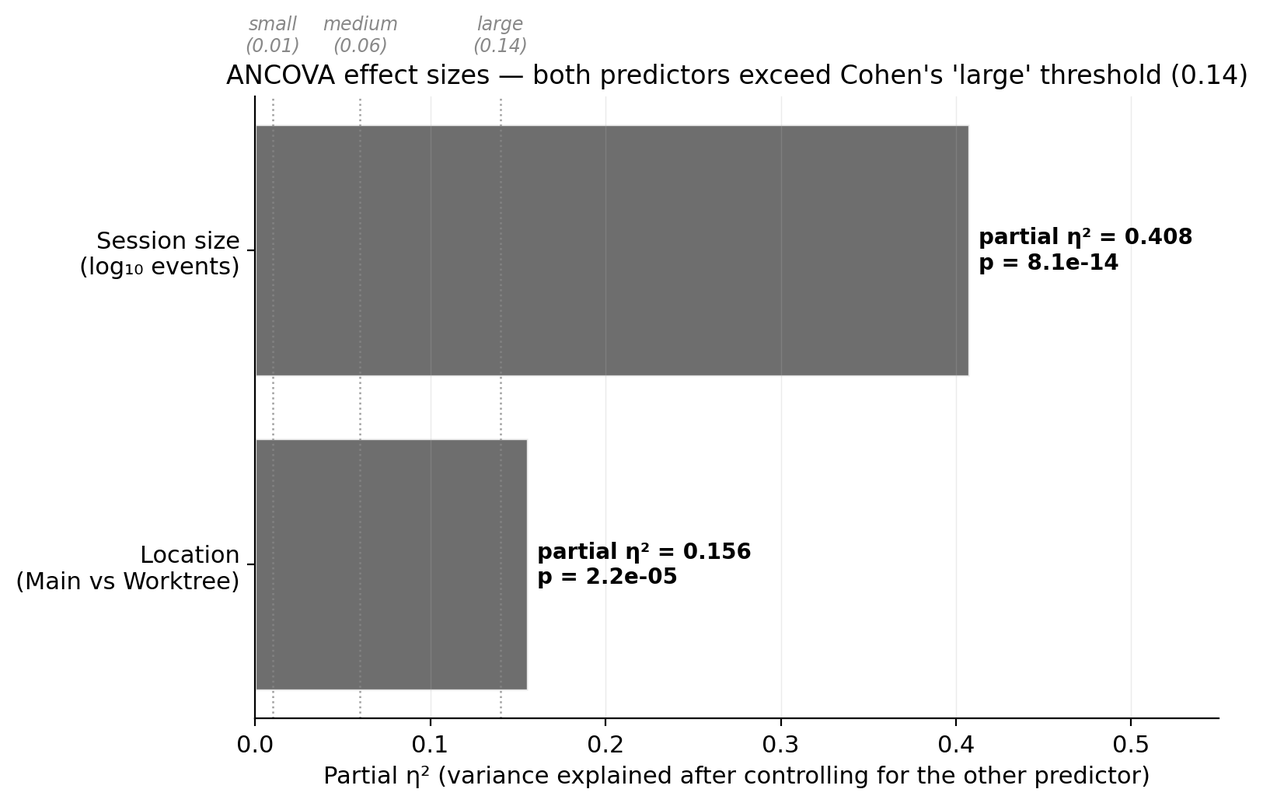
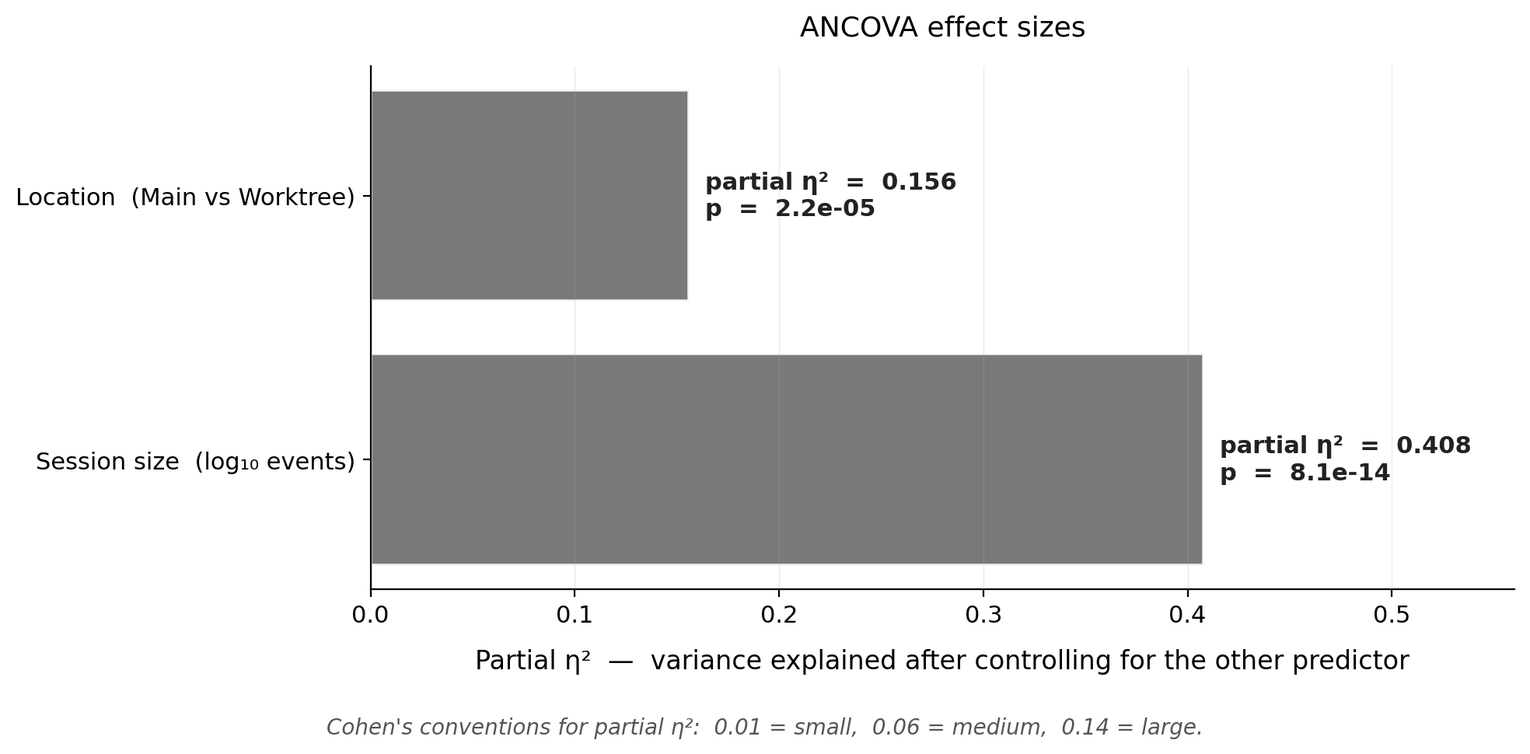
fix(blog): rework figures layout + restructure to scientific-article sections
Figures v2 — resolved layout/legibility issues flagged on v1:
- fig1 (ANCOVA): legend moved outside the plot area (no longer overlapping
  points), y-axis padded so points don't clip the frame, +39pp annotation
  moved to an empty quadrant.
- fig2 (bucket means): n labels placed ABOVE bars (with clearance above
  error bars), 50% reference annotation relocated to the empty upper-left
  where no bars reach, wider bar spacing.
- fig3 (xlong dot plot): extra vertical padding, cleaner mean labels.
- fig4 (effect sizes): removed cluttered threshold reference lines +
  labels that were stacking under the x-axis; replaced with a single
  italic caption at the bottom. Larger annotation text.

Article restructure:
- Scientific-article sectioning: TL;DR / Introduction / Methodology /
  Results / Discussion / Limitations / Summary (replaces the previous
  ad-hoc section names).
- Two monolithic pre-formatted code-block tables (descriptive stats +
  ANCOVA results) converted to proper markdown tables with pipes.
- Content substantively unchanged — same claims, same numbers, same
  mechanism, same fix. Rearranged only.

diff --git a/src/pages/content/blog/claude-code-cache-ttl-worktree-trap.md b/src/pages/content/blog/claude-code-cache-ttl-worktree-trap.md
@@ -10,148 +10,151 @@ og_image: "/images/blog/claude-code-cache-ttl-worktree-trap/fig1_ancova_parallel
 draft: true
 ---
 
-Parsed 30 days of my Claude Code JSONL transcripts. Two factors independently drive prompt-cache TTL drift: how long your session runs, and whether it runs inside a git worktree. Worktrees add roughly 39 percentage points of 5-minute-TTL cache share at any session size. Together these two effects explain half the variance across 110 sessions. Here's the data, the formal test, a short primer on Analysis of Covariance because it somehow didn't come up in my own stats training despite the PhD, and the single-layer fix that makes the whole thing go away.
+## TL;DR
 
-## What I measured
+Parsed 30 days of my Claude Code JSONL transcripts. Two factors independently drive per-session 5-minute-TTL cache share, and controlling for one does not kill the other. Session length matters (F = 73.65, partial η² = 0.41). Git-worktree location matters on top of that (F = 19.75, p = 2.2×10⁻⁵, partial η² = 0.156), shifting the whole drift curve up by about 39 percentage points regardless of how long the session runs. Together the two effects explain roughly half the variance across 110 sessions. Mechanism is `git rev-parse --show-toplevel` returning the worktree dir, so Claude Code treats it as its own project root and never reads the parent repo's `.claude/settings.local.json`. Fix is a user-level `~/.claude/settings.json` hook chain, which is the only config layer loaded regardless of which project root the session resolves to.
 
-Every Claude Code session writes a transcript to `~/.claude/projects/<slug>/<session-id>.jsonl`. Each assistant message's `usage` block contains a `cache_creation` field with two counters: `ephemeral_5m_input_tokens` (writes tagged with the 5-minute TTL) and `ephemeral_1h_input_tokens` (writes tagged with the 1-hour TTL). The 1-hour bucket costs 2× a 5-minute write, but at the 14× read-to-write ratio I see on interactive sessions, it amortizes to roughly 9× cheaper per sustained workload. Every percentage point of cache mass in the 5-minute bucket instead of the 1-hour one is a proportional chunk of that discount that's gone.
+## Introduction
 
-I aggregated every ScoutQL session over the 30-day window that had non-zero cache creation. 110 sessions total — 101 in the main checkout of the repo, 9 inside git worktrees of the same repo. For each session I recorded three things: how many events were in the session (proxy for length, from 4 to ~7000), whether the session was inside a worktree (nominal, Main vs Worktree), and the per-session 5-minute-TTL share as `e5 / (e5 + e1)` ∈ [0, 1].
+Claude Code writes every assistant message's token usage to a local JSONL file under `~/.claude/projects/<slug>/<session>.jsonl`. Inside each `usage` block there are two counters I care about: `ephemeral_5m_input_tokens` and `ephemeral_1h_input_tokens` — these are the two prompt-cache TTL buckets Anthropic charges differently for. The 1-hour bucket costs twice as much per write but pays the author back across any cache read inside the hour. On my real interactive workload I see about 14 cache reads per write, so the 1-hour bucket works out to roughly 9× cheaper per sustained session. Every percentage point of cache mass that lands in the 5-minute bucket instead of the 1-hour one is a proportional chunk of that discount gone.
 
-## The question I was actually asking
+So when a cost audit showed one of my projects sitting at 52 % 5-minute share while another was at 33 %, the obvious next question was "what's different about the higher one?". The obvious next answer — "that project has longer sessions" — turned out to be only half true. Both factors were real. The aggregate number was hiding the fact that session length and git-worktree location are independent drivers of cache-TTL drift. Untangling them required reaching for a statistical test I'd never used in my biology PhD. This post is the whole debugging loop written up as a mini scientific article, because the data deserved more than hand-waving and a table.
 
-The obvious hypothesis is that worktree sessions drift to 5-minute TTL because worktrees house longer sessions than main-checkout work does, and long sessions drift regardless of location. If that's the whole story, the worktree effect is a confound of session length and should disappear once you control for it. If it isn't the whole story — if worktrees drift more than equivalently-long main-checkout sessions — then worktrees are doing something independently bad, and that changes the fix.
+## Methodology
 
-Formally:
+### Data collection
 
-**H₀ (null hypothesis)**: After controlling for session length, there is no difference in 5-minute-TTL cache share between Main and Worktree sessions. The two regression lines of `share_5m ~ log₁₀(events)` have the same intercept.
+I aggregated every ScoutQL session over the 30-day window ending 2026-04-22 that had non-zero cache creation. 110 sessions total — 101 inside the main checkout of the repo, 9 inside git worktrees of the same repo. For each session I recorded three things:
 
-**H₁ (alternative)**: The intercepts differ. Worktree sessions have a non-zero additive offset in 5-minute share that exists at every session length.
+- **events** — number of assistant messages in the session, proxy for length (range 4 to ~7 000)
+- **location** — whether the session ran inside a git worktree (nominal, 2-level: Main / Worktree)
+- **share_5m** — the per-session 5-minute-TTL cache share, computed as `e5 / (e5 + e1)` ∈ [0, 1]
 
-The research questions this test answers, in the order the analysis actually needs to resolve them:
+### Hypotheses
 
-1. Does session size matter at all? (If it doesn't, there's nothing to control for.)
+**H₀ (null):** After controlling for session length, there is no difference in 5-minute-TTL cache share between Main and Worktree sessions. The two regression lines of `share_5m ~ log₁₀(events)` have the same intercept.
+
+**H₁ (alternative):** The intercepts differ. Worktree sessions carry an additive offset in 5-minute share that is present at every session length.
+
+### Research questions
+
+1. Does session size matter at all? If it doesn't, there's nothing to control for.
 2. Does worktree-vs-main matter *independently* of session size?
 3. Is the worktree effect constant across session lengths (additive offset) or does it grow with session length (interaction)?
 4. Is the extreme-cell pairwise difference large enough to matter, or a small-sample artifact?
 5. Together, how much of the per-session variation do these two factors explain?
 
-## A short primer on Analysis of Covariance
+### Why ANCOVA and not ANOVA
 
-If you came out of a biology or medicine PhD the way I did, the statistical toolkit you got was probably: Student's t for two-group means, one-way ANOVA for three-or-more-group means, Tukey or Bonferroni for post-hoc comparisons, a chi-square somewhere for contingency tables, and the Kruskal-Wallis non-parametric version for when the Gaussian assumption collapsed. Maybe a two-way ANOVA if your thesis committee was generous. That was roughly my toolkit. Analysis of Covariance — ANCOVA — was not in it. I'd never heard the name until I needed it for this post.
+If you came out of a biology or medicine PhD the way I did, your statistical toolkit was probably Student's t, one-way ANOVA, Tukey post-hoc, a chi-square somewhere, and Kruskal-Wallis when the distribution wasn't Gaussian. Analysis of Covariance — ANCOVA — wasn't in mine. I'd never heard the name until I needed it for this analysis.
 
-ANCOVA keeps ANOVA's continuous response and categorical factor, but it also admits **continuous predictors** alongside the factor — *covariates*. The covariate's variance gets subtracted from the response *before* the categorical factor is tested. In our case: session length is continuous, it varies a lot, and worktrees may just host longer sessions. The way to ask "does location still matter after I've accounted for length?" is ANCOVA.
+ANOVA's response is continuous, its predictors are categorical only, and its question is "do the group means differ?" ANCOVA keeps the continuous response and keeps the categorical factor, but it also admits **continuous predictors** alongside the factor. Those are called *covariates*. The covariate's variance is subtracted from the response before the factor is tested. Here, session length is continuous, varies a lot, and probably correlates with location — worktrees may just host longer sessions. The way to ask "does location still matter after I've accounted for length?" is ANCOVA.
 
-What ANCOVA fits is **one regression line per group** on the covariate. The test on the factor checks whether those lines share the same intercept. The test on the interaction checks whether they share the same slope. Different intercept, same slope = additive group effect, parallel lines. Different slope = the groups respond to the covariate differently. That intercept/slope language is exactly what the Results section uses. One precondition: you need enough overlap in the covariate's range across groups that length-effect and location-effect can be told apart. My data had it — barely, on the worktree side, but enough.
+Geometrically, what ANCOVA fits is **one regression line per group** on the covariate. The test on the factor checks whether the lines share the same intercept. The test on the factor-by-covariate interaction checks whether they share the same slope. Different intercept, same slope = additive group effect, parallel lines. Different slope = the groups respond to the covariate differently. My data had enough overlap in session-length range across groups that both effects were identifiable — barely, on the worktree side, but enough. That overlap is the unspoken precondition ANCOVA needs to work.
 
-The other gift ANCOVA gives you over bucketed ANOVA is that it keeps the covariate continuous. If I'd bucketed session length into five ordinal bins (tiny / short / medium / long / xlong) and run a two-way ANOVA, I'd have discarded all the within-bucket variation — which is information ANCOVA uses for free. The post-hoc supporting two-way ANOVA I ran came out to the same qualitative conclusion but with weaker effect-size estimates, exactly because of this.
+The alternative would be to bucket session length into ordinal bins (tiny / short / medium / long / xlong) and run a two-way ANOVA, which I also did as a supporting check. It reaches the same qualitative conclusion with weaker effect-size estimates, because it throws away within-bucket variation that ANCOVA uses for free.
+
+### Model
+
+```
+Response:   share_5m           (continuous, bounded [0, 1])
+Predictors: log10(events)      (continuous covariate)
+            location           (2-level nominal factor: Main | Worktree)
+n = 110 sessions
+```
+
+Additive model: `share_5m ~ log10(events) + C(location)`. The interaction `log10(events) × C(location)` was also fitted and tested — if non-significant, the additive model is the right summary.
 
 ## Results
 
 ### Descriptive — cache share climbs with session size, worktrees sit uniformly higher
 
-Mean per-session 5-minute-TTL share by size bucket and location, with standard-error error bars and per-cell n labels:
+Mean per-session 5-minute-TTL share by size bucket and location, with SE error bars and per-cell n labels:
 
-![Bucket means — cache share by session size and location, showing the worktree offset at every bucket](/images/blog/claude-code-cache-ttl-worktree-trap/fig2_bucket_means.png)
+![Bucket means — per-session 5m-TTL share by session size and location, showing the worktree offset at every bucket](/images/blog/claude-code-cache-ttl-worktree-trap/fig2_bucket_means.png)
 
-```
-location   size_bucket        n   mean_5m    sd
-Main       tiny (<10)        40     0.000  0.000
-Main       short (10-49)     33     0.099  0.289
-Main       medium (50-199)   13     0.347  0.377
-Main       long (200-499)     7     0.536  0.462
-Main       xlong (500+)       8     0.466  0.162
-Worktree   tiny               4     0.250  0.500
-Worktree   medium             1     1.000    n/a
-Worktree   long               1     1.000    n/a
-Worktree   xlong              3     0.974  0.045
-```
+The full bucket table:
 
-Main-checkout tiny sessions are at zero percent 5-minute share — short sessions cache everything to the 1-hour bucket and read it back. As session size grows, the main-checkout curve climbs to about 47% at xlong (500+ events). Worktrees start at 25% in the tiny bucket and climb to 97% at xlong. The worktree curve is visually parallel to the main curve but offset upward by roughly 39-50 percentage points across the whole range. That's the parallel-lines shape ANCOVA tests formally.
+| Location | Bucket (events)  |   n | mean 5m | sd      |
+|----------|------------------|----:|--------:|--------:|
+| Main     | tiny   (<10)     |  40 |   0.000 |   0.000 |
+| Main     | short  (10–49)   |  33 |   0.099 |   0.289 |
+| Main     | medium (50–199)  |  13 |   0.347 |   0.377 |
+| Main     | long   (200–499) |   7 |   0.536 |   0.462 |
+| Main     | xlong  (500+)    |   8 |   0.466 |   0.162 |
+| Worktree | tiny             |   4 |   0.250 |   0.500 |
+| Worktree | medium           |   1 |   1.000 |   —     |
+| Worktree | long             |   1 |   1.000 |   —     |
+| Worktree | xlong            |   3 |   0.974 |   0.045 |
+
+Main-checkout tiny sessions sit at zero — short sessions cache everything to the 1-hour bucket and read it back. As session size grows, the main-checkout curve climbs to about 47 % at xlong (500+ events). Worktrees start at 25 % in the tiny bucket and climb to 97 % at xlong. The worktree curve is visually parallel to the main curve but offset upward across the whole range. That's the parallel-lines shape ANCOVA tests formally.
 
 ### ANCOVA — the formal test
 
 Fit `share_5m ~ log10(events) + C(location)` on all 110 sessions. This is the model that pulls the session-length effect into a continuous covariate and tests the location factor independently:
 
-![ANCOVA parallel lines — Main vs Worktree regression lines with the +39 pp vertical offset annotated](/images/blog/claude-code-cache-ttl-worktree-trap/fig1_ancova_parallel_lines.png)
+![ANCOVA parallel lines — Main and Worktree regression lines with the +39 pp vertical offset annotated](/images/blog/claude-code-cache-ttl-worktree-trap/fig1_ancova_parallel_lines.png)
 
-```
-Response:   share_5m
-Predictors: log10(events), continuous covariate
-            location, 2-level nominal factor
-n = 110
+| Effect          |    SS |   df |       F |         p          | partial η² |
+|-----------------|------:|-----:|--------:|-------------------:|-----------:|
+| log₁₀(events)   |  4.54 |    1 |   73.65 |    < 1×10⁻¹²       |     0.407  |
+| Location        |  1.22 |    1 |   19.75 |       2.2×10⁻⁵     |     0.156  |
+| Residual        |  6.60 |  107 |       — |                  — |          — |
 
-Effect          SS      df    F        p              partial η²
-log10(events)   4.54    1     73.65    < 1×10⁻¹²      0.407
-Location        1.22    1     19.75    2.2×10⁻⁵       0.156
-Residual        6.60    107
-R² = 0.503 (adjusted 0.493)
-```
+R² = 0.503 (adjusted 0.493). Both predictors are highly significant and both clear Cohen's "large effect" threshold (partial η² ≥ 0.14). The fitted coefficient on `Worktree` is +0.389 — at any given session size, a worktree session sits about 39 percentage points higher in 5-minute-TTL share than a main-checkout session.
 
-Both predictors are highly significant. The size effect is F(1, 107) = 73.65, p < 10⁻¹². The location effect is F(1, 107) = 19.75, p = 2.2×10⁻⁵. Together the model explains about half the variance in per-session 5-minute share (R² = 0.50).
+Running the interaction model `share_5m ~ log10(events) * C(location)` gives a non-significant interaction term (F = 1.66, p = 0.20). The two lines are statistically parallel — the worktree effect is a uniform additive offset across session length, not a shift that grows or shrinks with size. I'd expected the worktree effect to grow with session size (longer session → more dynamic churn → more 5-minute writes); the data said no, it's the same ~39 pp whether the session is 10 events or 1 000.
 
-The fitted coefficient on `Worktree` is +0.389. That's what the blue-to-red vertical distance in Figure 1 is showing: at any given session size, a worktree session sits about 39 percentage points higher in 5-minute-TTL share than a main-checkout session.
+### xlong cell — pairwise sanity check
 
-Running the interaction model `share_5m ~ log10(events) * C(location)` gives a non-significant interaction term (F = 1.66, p = 0.20). The two lines are statistically parallel — the worktree effect is a uniform additive offset across session length, not a shift that grows or shrinks with size. This is the cleanest version of the finding you can get: *one number, additive, at every session length*. I'd expected the worktree effect to grow with session size (longer session → more dynamic churn → more 5-minute writes); the data said no, it's the same ~39 pp whether your session is 10 events or 1000.
+The xlong bucket is where both populations are furthest from baseline. Welch's t-test on Main xlong (n = 8) vs Worktree xlong (n = 3):
 
-### xlong cell — the pairwise sanity check
-
-The xlong bucket is where both populations are furthest from baseline. Pairwise Welch's t-test on Main xlong (n = 8) vs Worktree xlong (n = 3):
-
-![xlong cell dot plot — individual sessions, Main cluster wide at 47 %, Worktree cluster tight at 97 %](/images/blog/claude-code-cache-ttl-worktree-trap/fig3_xlong_distributions.png)
+![xlong cell dot plot — individual sessions; Main cluster wide at 47 %, Worktree cluster tight at 97 %](/images/blog/claude-code-cache-ttl-worktree-trap/fig3_xlong_distributions.png)
 
 Main xlong: mean 0.466, sd 0.162. Worktree xlong: mean 0.974, sd 0.045. Welch's t = −8.07, p < 0.0001, Cohen's d = 3.51. Mann-Whitney U non-parametric check gives p = 0.019 even with n = 3 on the worktree side.
 
-The Cohen's d of 3.51 is absurd by conventional standards (the "large effect" threshold is 0.8). It's absurd because the worktree xlong cluster is *tight* — three sessions, all within 4.5 percentage points of 97%. The distance between means is about 0.5, and the pooled standard deviation is about 0.14, hence d ≈ 3.5. If worktree sessions were as variable as main sessions, d would be about 1.5 for the same mean difference — still "huge" but less eye-popping. The tight cluster is itself real information: the worktree trap produces a near-deterministic outcome rather than a stochastic one.
+The Cohen's d of 3.51 is absurd by conventional standards — the "large effect" threshold is 0.8. It's absurd because the worktree xlong cluster is *tight* (three sessions within 4.5 percentage points of 97 %), so the pooled standard deviation is about 0.14 and the mean difference of 0.5 blows past every threshold. If worktree sessions were as variable as main sessions, d would be about 1.5 for the same gap — still huge, less eye-popping. The tight cluster is itself real information: the worktree trap produces a near-deterministic outcome, not a stochastic one.
 
-### Effect sizes — both predictors are "large" by Cohen's convention
+### Effect sizes
 
-![Effect-size bar chart — session size and location both exceed the 0.14 "large effect" threshold](/images/blog/claude-code-cache-ttl-worktree-trap/fig4_effect_sizes.png)
+![Effect-size bar chart — session size and location both exceed Cohen's 0.14 "large effect" threshold](/images/blog/claude-code-cache-ttl-worktree-trap/fig4_effect_sizes.png)
 
-Partial η² for session size is 0.407, for location is 0.156. Cohen's conventions for partial η² in an ANOVA/ANCOVA are 0.01 (small), 0.06 (medium), and 0.14 (large). Both of our effects are above the large threshold — session size very large, location comfortably large. That's the effect-size picture that corresponds to the highly significant p-values.
+Partial η² for session size is 0.407, for location is 0.156. Both above Cohen's "large" threshold of 0.14. That's the effect-size picture that corresponds to the highly significant p-values — these are not "statistically detectable but practically tiny" effects, they are genuinely large.
 
-### Robustness checks
+### Robustness
 
-Three worth naming.
+Three checks worth naming. First, the response is a proportion ∈ [0, 1]. OLS regression assumes Gaussian residuals with homoscedastic variance, which a proportion technically violates. Re-running the ANCOVA after an arcsine-square-root transform on the response gives essentially identical F-statistics and the same qualitative conclusion. Not an artifact of the distribution assumption. Second, the supporting two-way ANOVA on bucketed session size (same data, ordinal covariate instead of continuous) reproduces the finding at slightly weaker effect sizes, which is the expected cost of information loss from bucketing. Third, the Mann-Whitney non-parametric pairwise on the xlong cell survives the small-n worktree sample.
 
-First: the response is a proportion ∈ [0, 1], which technically violates OLS's Gaussian-residuals assumption. Re-running after an arcsine-square-root transform gives essentially identical F-statistics. Not an artifact of the distribution assumption.
+## Discussion
 
-Second, the worktree sample is small (n = 9) and unbalanced. The additive-model ANCOVA uses all 110 sessions across the continuous covariate, so it's less affected than the pairwise t-test. But the ~39 pp point estimate has a wider confidence interval than the single number suggests; replicating on a larger worktree sample would narrow it. Qualitative direction should hold.
+### Mechanism — SessionStart hooks anchor the 1-hour cache
 
-Third, and most importantly: this is observational data. I didn't randomly assign sessions to worktrees. There could be unmeasured confounders I haven't modeled — task type, tool mix, time of day, mental state while coding. ANCOVA controls for the one continuous confounder I measured (session length). It can't control for what I didn't measure.
+Claude Code tags stable prefix content of each model request (system prompt, tool schemas, CLAUDE.md, SessionStart hook stdout) with 1-hour TTL, and dynamic per-turn content with 5-minute TTL. The caching heuristic keys on prefix-hash stability — large stable preambles get big 1-hour anchors that amortize across every subsequent cache read; sessions without preamble see each turn's changing prefix written to 5-minute instead.
 
-## What this means mechanistically
+The main lever for the 1-hour anchor is SessionStart hooks. They're configurable emit-points that inject deterministic bash-script output into the session's system context. A hook that outputs 10 KB of backlog summary, lessons file, or architecture-doc slice adds 10 KB of stable prefix that lands in the 1-hour bucket and gets read back 14 times over the session. The ANCOVA's ~39 pp worktree coefficient is the quantitative measure of how much of that anchoring content worktree sessions are silently missing.
 
-Claude Code tags stable prefix content of each model request (system prompt, tool schemas, CLAUDE.md, SessionStart hook stdout) with 1-hour TTL and the dynamic per-turn content with 5-minute TTL. The caching heuristic keys on prefix-hash stability — large stable preambles get big 1-hour anchors that amortize across every subsequent read; sessions without preamble see each turn's changing prefix written to 5-minute instead.
+### The worktree gotcha
 
-The main lever for the 1-hour anchor is SessionStart hooks. They're configurable emit-points that inject deterministic bash-script output into the session's system context. A hook that outputs 10 KB of backlog summary, lessons file, or architecture-doc slice adds 10 KB of stable prefix that lands in the 1-hour bucket and gets read back 14 times over the session.
+Claude Code resolves project root via `git rev-parse --show-toplevel`. Git worktrees are their own top-level — each worktree has an independent working-tree root as far as git is concerned, even though its `.git` file points back at the parent repo's object database. So when Claude Code starts a session from `<repo>/.claude/worktrees/<name>/`, the project root it resolves to is the worktree directory. The `.claude/settings.json` it loads is the one at the worktree root — a minimal stub auto-propagated by `git worktree add`, usually containing a plugin toggle and nothing else. No hooks. The rich project-level config in the parent `<repo>/.claude/settings.local.json` is never consulted. CLAUDE.md discovery probably bifurcates the same way — the worktree's tracked CLAUDE.md bytes are there because git tracks them, but any `settings.local.json`-directed additional-context paths are not.
 
-Claude Code resolves project root via `git rev-parse --show-toplevel`. Git worktrees are their own top-level — each worktree has an independent working-tree root as far as git is concerned, even though its `.git` file points back at the parent repo's object database. So when Claude Code starts from `<repo>/.claude/worktrees/<name>/`, the project root it resolves to is the worktree directory. The `.claude/settings.json` it loads is the one at the worktree root — a minimal stub auto-propagated by `git worktree add`, usually containing a plugin toggle and nothing else. No hooks. The rich project-level config in the parent `<repo>/.claude/settings.local.json` is never consulted. CLAUDE.md discovery probably bifurcates the same way — the worktree's tracked CLAUDE.md bytes are there because git tracks them, but any `settings.local.json`-directed additional-context paths are not.
+### The fix
 
-The ANCOVA's ~39 pp coefficient quantifies how much 1-hour-anchoring content the worktree is silently missing.
+User-level `~/.claude/settings.json` is the only Claude Code config layer loaded regardless of which project root the session resolves to. Moving the SessionStart hook chain there means every session — main checkout, worktree, nested sub-repo, arbitrary cwd — gets the same deterministic preamble anchored into the 1-hour bucket. For worktree sessions specifically, user-level hooks pull the ~97 % xlong-worktree 5-minute share down toward whatever curve main-checkout sessions already run on. For main-checkout sessions, user-level hooks extend the 1-hour anchor beyond whatever default preamble Claude Code provides, pulling the xlong-main ~47 % share toward near-zero.
 
-## The fix
+One migration gotcha. Claude Code merges hooks additively across user, project, and project-local layers — union, not override. If you add user-level hooks without stripping pre-existing project-level copies, each hook fires twice per session. I measured it in my own setup: doubled hooks added about $0.11 per session in redundant 1-hour writes, invisible unless you count `hook_success` records in the JSONL transcript. Strip the lower-layer duplicates after migration; keep user-level as the single authority.
 
-User-level `~/.claude/settings.json` is the only Claude Code config layer loaded regardless of which project root the session resolves to. Moving the SessionStart hook chain there means every session — main checkout, worktree, nested sub-repo, arbitrary cwd — gets the same deterministic preamble anchored into the 1-hour bucket.
+## Limitations
 
-One gotcha on the migration. Claude Code merges hooks additively across user / project / project-local layers. Union, not override. If you add user-level hooks without stripping pre-existing project-level copies, each hook fires twice per session. I measured this in my own setup — doubled hooks added about $0.11 per session in redundant 1-hour writes, invisible unless you count `hook_success` records in the JSONL transcript. Strip the lower-layer duplicates after migration; keep user-level as the single authority.
+Sample size and log-linearity. The worktree sample is small (n = 9, one project). Replicating on more projects and more worktree sessions would tighten the 39 pp point estimate, and would test whether the magnitude is workflow-specific — my worktrees happen to host long feature-branch sessions, so someone who uses worktrees for short-lived hotfix work might see a smaller effect because short sessions don't drift as much regardless. The analysis also treats `log10(events)` as linear in share_5m. A non-linear relationship (say, drift saturating above a certain session size) wouldn't be captured; splines or a GAM would handle it, but the bucket descriptive data suggests the relationship is roughly linear in log space across the range I observed.
 
-For worktree sessions specifically, the user-level hooks pull the ~97 % xlong-worktree 5-minute share down toward whatever curve main-checkout sessions already sit on. For main-checkout sessions, they extend the 1-hour anchor beyond Claude Code's default preamble, pulling the xlong-main ~47 % share down toward near-zero.
+Observational, not experimental. I didn't randomly assign sessions to worktrees — workflow patterns did. ANCOVA controls for the one continuous confounder I measured (session length). It can't control for what I didn't measure. The conclusions should be read as "at a 30-day sample of my workload, location independently predicts cache drift after controlling for session length" — not as "worktrees *cause* cache drift." The mechanism section makes the causal claim plausible, but the formal inference is associational.
 
-## Limitations worth saying out loud
+## Summary
 
-The worktree sample is small (n = 9 sessions, one project), and the analysis treats `log10(events)` as linear. On both counts: replicating on more projects and sessions would tighten the 39 pp estimate and surface any non-linearity (drift saturating at high session sizes, say) that the current model shape can't capture. My worktrees happen to host long feature-branch sessions; someone using worktrees for short-lived hotfix work might see a smaller effect because short sessions don't drift much regardless of location. The bucket descriptive in Figure 2 looks roughly linear in log space over the range I observed, but I can't claim that strongly from one dataset.
+Three one-liners for anyone doing similar analysis on their own Claude Code telemetry.
 
-This is observational, not experimental. ANCOVA controls for the one continuous confounder I measured. It can't control for what I didn't measure. The conclusions should be read as "at a 30-day sample of my workload, location independently predicts cache drift after controlling for session length" — not as "worktrees *cause* cache drift." The mechanism section makes the causal claim plausible, but the formal inference is associational.
+If you use Claude Code for sustained interactive development, long sessions drift toward 5-minute TTL by default. The 1-hour cache discount is not automatic — it's a function of how much stable preamble your SessionStart hooks emit.
 
-## What I learned along the way
+If you use git worktrees for feature branches, the drift is ~39 percentage points worse than for main-checkout sessions of the same length, and the fix has to be at user level because the worktree doesn't inherit its parent repo's `.claude/settings.local.json`.
 
-Three things, aimed at anyone doing similar analysis on their own setup.
-
-If you're parsing developer-tool telemetry and your aggregate number splits by some rollup key, decompose by the key before trusting the aggregate. My original framing had ScoutQL at 52 % 5-minute share and MetaOrchestrator at 33 %, and I wrote an entire first-draft blog post about the 19-point gap. The gap turned out to be a label-function artifact that was rolling worktree slugs under their parent project — the main-checkout number was actually 33.4 %, indistinguishable from the baseline. A four-line change to one Python function turned a fake 19-point anomaly into a real 39 pp one, in a different place.
-
-If your "categorical" variable is actually a bucketing of a continuous one, ANCOVA beats bucketed ANOVA almost always. Bucketing discards within-bucket variance; ANCOVA uses it. The exception is when the relationship is genuinely non-linear in the covariate — and even then, log-transforming or splining the covariate beats bucketing.
-
-If a statistical method exists for your data shape and you didn't learn it in your PhD, that's not unusual. ANOVA shows up in biology coursework because the classical experimental design — randomize subjects to discrete treatment groups — maps onto it directly. ANCOVA shows up in fields where the "treatment" is observational and the "treatment assignment" is correlated with other things you can measure, which is more of an economics or psychology problem than a classical biology one. It's a gap in the curriculum, not a limitation of the method. Good to know it exists for the next time the data has this shape.
-
-The whole analysis — data collection, model fitting, figure generation — took about two hours once I knew what to run. The JSONL transcripts were already on my laptop. Your telemetry probably is too.
+If you want to verify this on your own setup, the instrumentation is already on your laptop at `~/.claude/projects/*/<session>.jsonl`, field `message.usage.cache_creation.ephemeral_5m_input_tokens`. Thirty minutes, a Python script, and one ANCOVA tells you whether the same two-effect picture holds for your usage pattern. The whole analysis — data collection, model fitting, figure generation — took about two hours once I knew what to run. Your telemetry is already there.
